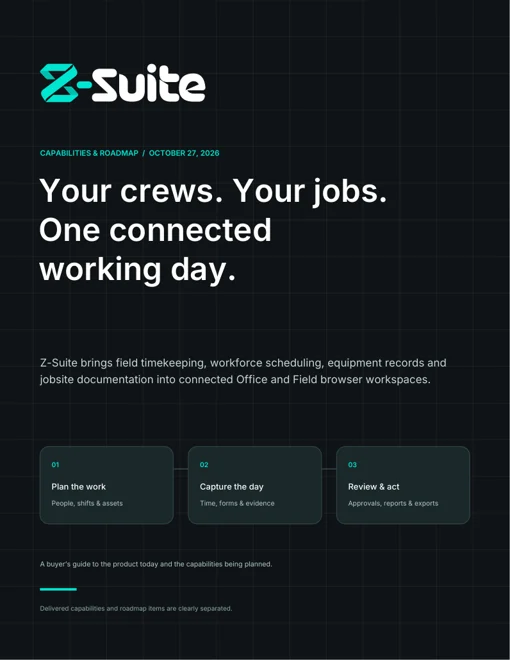
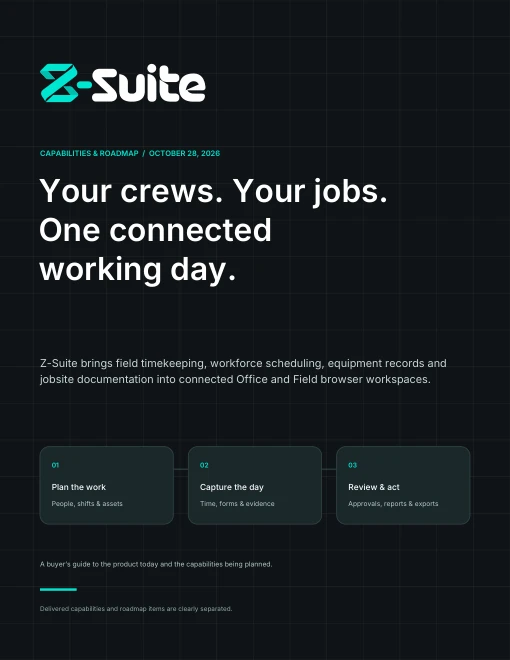
[verified] Refresh implemented JSA capabilities and customer guide

diff --git a/docs/index.html b/docs/index.html
@@ -55,9 +55,9 @@
   <div class="capability-list">
     <article class="capability"><div class="capability-label"><span>01 / TIME</span><h3>From the first punch <br>to payroll handoff.</h3></div><div class="capability-detail"><p>Capture time against projects and cost codes. Give employees a way to review their cards, request corrections and attest to their time—then put the office in control of review and close.</p><ul><li>Online clock-in/out, breaks and work-allocation changes</li><li>Individual and bulk time-card approval, returns and corrections</li><li>Period readiness, locking and mapped payroll CSV exports</li></ul><p class="scope-note">Payroll preparation and file handoff—not wage payments, direct deposit or tax filing.</p></div></article>
     <article class="capability"><div class="capability-label"><span>02 / PEOPLE</span><h3>A plan the crew <br>can work from.</h3></div><div class="capability-detail"><p>Bring employee records, crew scheduling and personal schedules into the same operating picture. Compare planned work with clocked attendance without confusing it with approved payroll time.</p><ul><li>Day, week and month planning with recurring events</li><li>Employee assignments, shift acknowledgements and time off</li><li>Crews, positions, employment history and scoped roles</li></ul><p class="scope-note">Scheduling is workforce planning, not construction critical-path scheduling or automatic optimization.</p></div></article>
-    <article class="capability"><div class="capability-label"><span>03 / EQUIPMENT</span><h3>More than an <br>asset list.</h3></div><div class="capability-detail"><p>Keep the asset record close to its service history and the work it supports. Review requests and operator qualifications, book individual assets and explicitly link equipment to time entries or shifts.</p><ul><li>Registry, asset history, files, custody and manual locations</li><li>Maintenance, service, meters, inspections and defects</li><li>Requests, bookings, operator reviews and work associations</li></ul><p class="scope-note">No continuous GPS/telematics, parts inventory or automatic equipment usage costing is implied.</p></div></article>
+    <article class="capability"><div class="capability-label"><span>03 / EQUIPMENT</span><h3>More than an <br>asset list.</h3></div><div class="capability-detail"><p>Keep the asset record close to its service history and the work it supports. Review requests and operator qualifications, book individual assets and explicitly link equipment to time entries or shifts.</p><ul><li>Registry, asset history, files, custody and manual locations</li><li>Maintenance, service, meters, inspections and defects</li><li>Requests, bookings, operator reviews and work associations</li><li>Read-only Daily JSA checks on registered assets, linked to saved source revisions</li></ul><p class="scope-note">JSA checks require whole-company Equipment and Daily JSA read access; typed unit numbers are not matched. No continuous GPS/telematics, parts inventory or automatic equipment usage costing is implied.</p></div></article>
     <article class="capability"><div class="capability-label"><span>04 / FIELD RECORDS</span><h3>Capture the work. <br>Keep the evidence.</h3></div><div class="capability-detail"><p>Give field information a consistent home: structured forms, project photos and documents, daily reports and expense evidence. Let authorized office reviewers follow the record through its next step.</p><ul><li>Forms with photos, files, signatures and review controls</li><li>Office daily reports, coverage views and finalization</li><li>Shared Files, expenses, per diem and reimbursement handoffs</li></ul><p class="scope-note">Uploads depend on configured storage and scanning. Reimbursement evidence does not move money.</p></div></article>
-    <article class="capability"><div class="capability-label"><span>05 / SAFETY & TRAINING</span><h3>Safety conversations. <br>Recorded context.</h3></div><div class="capability-detail"><p>Capture daily crew job safety analyses (JSAs), reuse safety content and retain training and qualification evidence. Help reviewers understand what is recorded—and what still needs attention.</p><ul><li>Field daily JSA capture, hazards, controls, sketches and sign-ins</li><li>Reusable JSA libraries, observations and linked follow-ups</li><li>Training sessions, completions, renewals and expiry records</li></ul><p class="scope-note">Some Office safety masters are read-only. Records are not regulatory approval or a guarantee of safe work.</p></div></article>
+    <article class="capability"><div class="capability-label"><span>05 / SAFETY & TRAINING</span><h3>Safety conversations. <br>Recorded context.</h3></div><div class="capability-detail"><p>Capture daily crew job safety analyses (JSAs), review them in Office and prepare the record for sharing. Keep recorded content, sign-ins and reasoned corrections together—not in disconnected paperwork.</p><ul><li>Field daily JSA capture, hazards, controls, sketches and sign-ins</li><li>Office search, record review, managed corrections and late sign-ins</li><li>Formatted PDF/print and on-demand project bundles of up to 31 days</li><li>Optional NWS forecast-high and EPA AirNow PM2.5 AQI draft pre-fill; values remain editable</li><li>Reusable JSA libraries, observations, training and qualification evidence</li></ul><p class="scope-note">Bundles cover one project, exclude drafts/archives and require whole-company JSA read or manage access. Lookup needs provider setup, a published site boundary and supported US-provider coverage; manual entry remains available. AirNow requires a key and first-deployment validation, not yet verified by this guide. Some other Office safety masters remain read-only. Records are not regulatory approval or a guarantee of safe work.</p></div></article>
   </div>
 </section>
 <section class="workflow-section section" id="workflows" aria-labelledby="workflow-heading">
@@ -78,11 +78,11 @@
 </section>
 <section class="section container supporting-section" aria-labelledby="support-heading"><div><p class="eyebrow">THE EVERYDAY DETAILS MATTER</p><h2 id="support-heading">A platform is only as useful <br>as its day-to-day controls.</h2></div><dl class="support-list"><div><dt>Permission-aware access</dt><dd>Give roles self, crew, group or company reach. Keep sensitive records and actions separately controlled.</dd></div><div><dt>Communication with a response</dt><dd>Target Bulletin posts to the right audiences and request explicit acknowledgements—not just views.</dd></div><div><dt>An adaptable browser experience</dt><dd>Company branding, regional settings, English/Spanish interface selection and personal appearance preferences.</dd></div><div><dt>Guidance and handoff options</dt><dd>Readable English help, mapped CSV exports and FOUNDATION connection/reconciliation controls, subject to external setup and validation.</dd></div></dl></section>
 <section class="fit-section section" id="fit" aria-labelledby="fit-heading"><div class="container"><p class="eyebrow">MAKE A GROUNDED DECISION</p><h2 id="fit-heading">Buy for the work you do. <br>Not a roadmap promise.</h2><div class="fit-columns"><div><h3>A strong fit to evaluate</h3><p>Field-based teams looking to connect job-coded time, crew planning, equipment and documentation with office review.</p><ul class="check-list"><li>You want time and job context together.</li><li>You need clear employee and reviewer workflows.</li><li>You want evidence close to the record it supports.</li></ul></div><div><h3>Keep adjacent systems in view</h3><p>Z-Suite is not a replacement for every financial, construction or compliance system.</p><ul class="boundary-list"><li>Payroll files, not payroll money movement.</li><li>Job-level activity, not a full accounting ledger.</li><li>Online browser work, not a delivered native/offline app.</li></ul></div></div>
-<div class="questions"><h3>Questions worth asking</h3><details><summary>What is available today?</summary><p>The time, scheduling, workforce, equipment and field-record workflows described above are implemented in the reviewed software baseline. Some safety masters are read-only, and configuration, permissions and deployment determine availability. The downloadable guide gives the detailed boundaries.</p></details><details><summary>Does Z-Suite process payroll or reimbursements?</summary><p>No. Time review, period close, mapped payroll CSV exports and reimbursement handoff/evidence workflows prepare and record handoffs. They do not issue wages, transfer funds, make direct deposits or file payroll taxes.</p></details><details><summary>Can crews use it offline or in a native mobile app?</summary><p>The delivered experience is online Office and Field browser workspaces. Some workflows retain unsent input for explicit retry, but that is not offline completion or background synchronization. Native/offline platform foundations are planned, not a delivered mobile application.</p></details><details><summary>What integrations and languages are supported?</summary><p>The reviewed product includes mapped CSV export and specific inbound FOUNDATION setup and reconciliation screens. External provisioning and end-to-end operation need validation; no broad accounting integration catalog or direct payroll transmission is implied. English/Spanish interface selection is implemented; the existing help article edition is English, with Spanish articles planned.</p></details><details><summary>What is being developed or planned?</summary><p>The daily-JSA program is partially delivered and remains in review for remaining Office, formatted-report and bundle work. Dependent JSA asset/conditions follow-ups, native/offline foundations, guided help and Spanish articles, optional Microsoft sign-in and permission-controlled read-only AI connections are planned. These are not dated commitments; purchase decisions should rely on delivered scope.</p></details><details><summary>What should we validate in a demonstration?</summary><p>Walk through a clocked shift and correction, period review and your payroll mapping, an asset booking and service record, and a form or JSA. Test the intended roles, sign-in, uploads/scanning and required external connections. Configuration and support terms should be agreed separately.</p></details></div>
+<div class="questions"><h3>Questions worth asking</h3><details><summary>What is available today?</summary><p>The time, scheduling, workforce, equipment and field-record workflows described above are implemented in the reviewed software baseline. Some safety masters are read-only, and configuration, permissions and deployment determine availability. The downloadable guide gives the detailed boundaries.</p></details><details><summary>Does Z-Suite process payroll or reimbursements?</summary><p>No. Time review, period close, mapped payroll CSV exports and reimbursement handoff/evidence workflows prepare and record handoffs. They do not issue wages, transfer funds, make direct deposits or file payroll taxes.</p></details><details><summary>Can crews use it offline or in a native mobile app?</summary><p>The delivered experience is online Office and Field browser workspaces. Some workflows retain unsent input for explicit retry, but that is not offline completion or background synchronization. Native/offline platform foundations are planned, not a delivered mobile application.</p></details><details><summary>What integrations and languages are supported?</summary><p>The reviewed product includes mapped CSV export and specific inbound FOUNDATION setup and reconciliation screens. External provisioning and end-to-end operation need validation; no broad accounting integration catalog or direct payroll transmission is implied. English/Spanish interface selection is implemented; the existing help article edition is English, with Spanish articles planned.</p></details><details><summary>What is being developed or planned?</summary><p>The remaining roadmap covers native/offline foundations, guided help and Spanish articles, optional Microsoft sign-in and permission-controlled read-only AI connections. Daily-JSA Office review, formatted reports, project bundles and connected Equipment/conditions context are now implemented, with the setup and scope limits described above. Native architecture is accepted, but its implementation is still planned. These are not dated commitments; purchase decisions should rely on delivered scope.</p></details><details><summary>What should we validate in a demonstration?</summary><p>Walk through a clocked shift and correction, period review and your payroll mapping, an asset booking and service record, and a form or JSA. Test the intended roles, sign-in, uploads/scanning and required external connections. Configuration and support terms should be agreed separately.</p></details></div>
 </div></section>
-<section class="guide-section section" id="guide" aria-labelledby="guide-heading"><div class="container guide-layout"><div><p class="eyebrow">TAKE THE DETAIL WITH YOU</p><h2 id="guide-heading">The capability guide. <br>Built for a closer look.</h2><p>Current workflows, real boundaries and planned development—clearly separated, in one shareable document.</p><a class="button button-teal" href="downloads/Z-Suite_Capabilities_and_Roadmap.pdf" download>Download the guide <span aria-hidden="true">↓</span></a><p class="download-meta">PDF · 9 pages · Reviewed October 27, 2026</p></div><a class="guide-cover" href="downloads/Z-Suite_Capabilities_and_Roadmap.pdf" aria-label="Open the Z-Suite capability guide PDF"><img src="assets/guide-cover.webp" alt="Cover of the Z-Suite capabilities and roadmap guide" width="510" height="660" loading="lazy"><span>CAPABILITIES + ROADMAP <span aria-hidden="true">↗</span></span></a></div></section>
+<section class="guide-section section" id="guide" aria-labelledby="guide-heading"><div class="container guide-layout"><div><p class="eyebrow">TAKE THE DETAIL WITH YOU</p><h2 id="guide-heading">The capability guide. <br>Built for a closer look.</h2><p>Current workflows, real boundaries and planned development—clearly separated, in one shareable document.</p><a class="button button-teal" href="downloads/Z-Suite_Capabilities_and_Roadmap.pdf" download>Download the guide <span aria-hidden="true">↓</span></a><p class="download-meta">PDF · 10 pages · Reviewed October 28, 2026</p></div><a class="guide-cover" href="downloads/Z-Suite_Capabilities_and_Roadmap.pdf" aria-label="Open the Z-Suite capability guide PDF"><img src="assets/guide-cover.webp" alt="Cover of the Z-Suite capabilities and roadmap guide" width="510" height="660" loading="lazy"><span>CAPABILITIES + ROADMAP <span aria-hidden="true">↗</span></span></a></div></section>
 </main>
-<footer class="site-footer"><div class="container footer-top"><a class="brand" href="#top" aria-label="Z-Suite home"><img src="assets/logo-light.svg" alt="" width="286" height="105" loading="lazy"></a><p>From the jobsite to the office.</p><a href="#platform">Back to the platform <span aria-hidden="true">↑</span></a></div><div class="container footer-bottom"><p>Marketing preview for internal review · Publicly reachable, not an application sign-in.</p><p>Capabilities reviewed October 27, 2026. Availability depends on configuration and deployment. No roadmap dates are committed.</p></div></footer>
+<footer class="site-footer"><div class="container footer-top"><a class="brand" href="#top" aria-label="Z-Suite home"><img src="assets/logo-light.svg" alt="" width="286" height="105" loading="lazy"></a><p>From the jobsite to the office.</p><a href="#platform">Back to the platform <span aria-hidden="true">↑</span></a></div><div class="container footer-bottom"><p>Marketing preview for internal review · Publicly reachable, not an application sign-in.</p><p>Capabilities reviewed October 28, 2026. Availability depends on configuration and deployment. No roadmap dates are committed.</p></div></footer>
 <script src="site.js" defer></script>
 </body>
 </html>

diff --git a/tests/test_site.py b/tests/test_site.py
@@ -38,4 +38,12 @@ class SiteTests(unittest.TestCase):
   for forbidden in ['staging.zsuite','paperclip','192.168.','mailto:','calendly','ZSU-','github.com/Zim-Industries/zsuite/blob']:
    self.assertNotIn(forbidden,text)
   self.assertIn('No roadmap dates are committed.',text)
+ def test_completed_jsa_work_is_described_as_delivered_not_future_scope(self):
+  text=(ROOT/'docs/index.html').read_text()
+  for delivered in ['project bundles of up to 31 days','Daily JSA checks','NWS','AirNow']:
+   self.assertIn(delivered,text)
+  for stale in ['daily-JSA program is partially delivered and remains in review','Dependent JSA asset/conditions follow-ups']:
+   self.assertNotIn(stale,text)
+  self.assertIn('native/offline foundations',text)
+  self.assertIn('optional Microsoft sign-in',text)
 if __name__=='__main__':unittest.main()

diff --git a/README.md b/README.md
@@ -44,6 +44,8 @@ GitHub Pages uses Actions. A push to `main` runs the static checks and browser s
 
 ## Copy and commercial claims
 
-The initial content is based on the reviewed October 27, 2026 capability baseline and matching capability guide. Delivery means implemented scope, not automatic availability in every deployment. Keep configuration prerequisites, read-only boundaries and payroll/offline limitations accurate. Do not add customer logos, testimonials, savings statistics, certification claims, prices, dates or feature availability without supporting approval and evidence.
+The current content and matching 10-page capability guide are reviewed through October 28, 2026, pinned to application main `0aab7a9c8a24b80325bb28f1b45eb3414d44048a`. This refresh moves existing daily-JSA Office review/reporting and connected asset/conditions scope out of the roadmap, based on merged implementation and source verification; no new roadmap themes were added. Native/offline architecture acceptance is not implementation. NWS/AirNow lookup remains setup/coverage-limited, and the first key-enabled AirNow deployment needs live validation.
+
+Delivery means implemented scope, not automatic availability in every deployment. Keep configuration prerequisites, read-only boundaries and payroll/offline limitations accurate. Do not add customer logos, testimonials, savings statistics, certification claims, prices, dates or feature availability without supporting approval and evidence.
 
 Planned work is separated from delivered scope and carries no release-date promise. Review the page and replace the guide together when product scope changes. Before a public marketing launch, approve final copy, review search/indexing posture, select a domain and decide whether to add contact details or a lead flow. None is configured in this preview.
